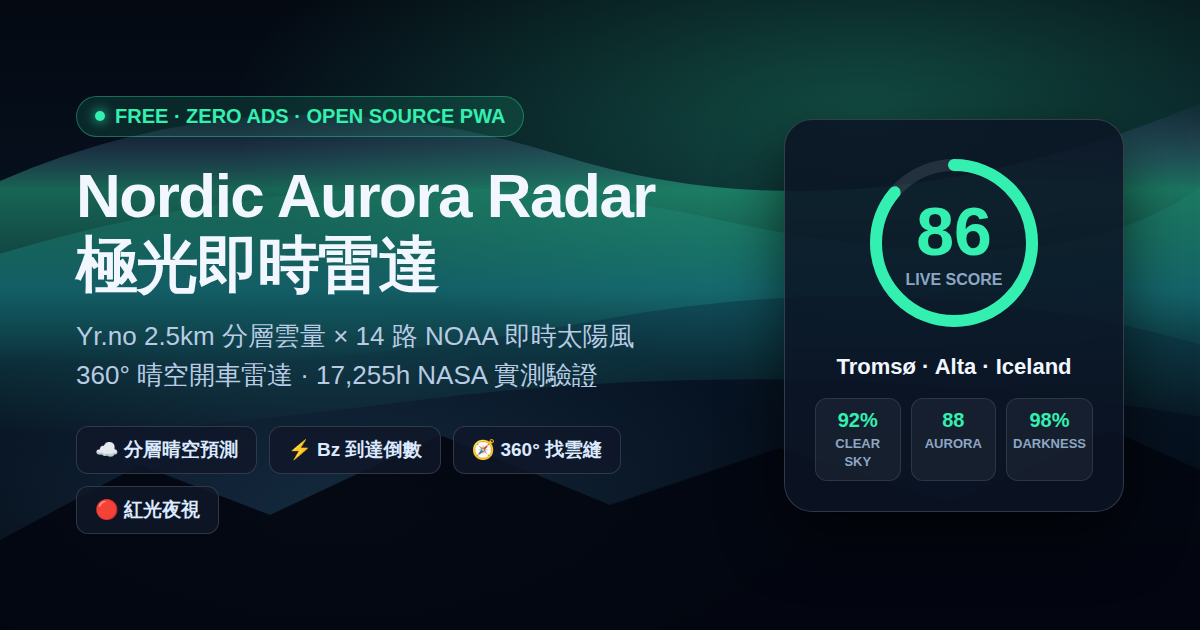
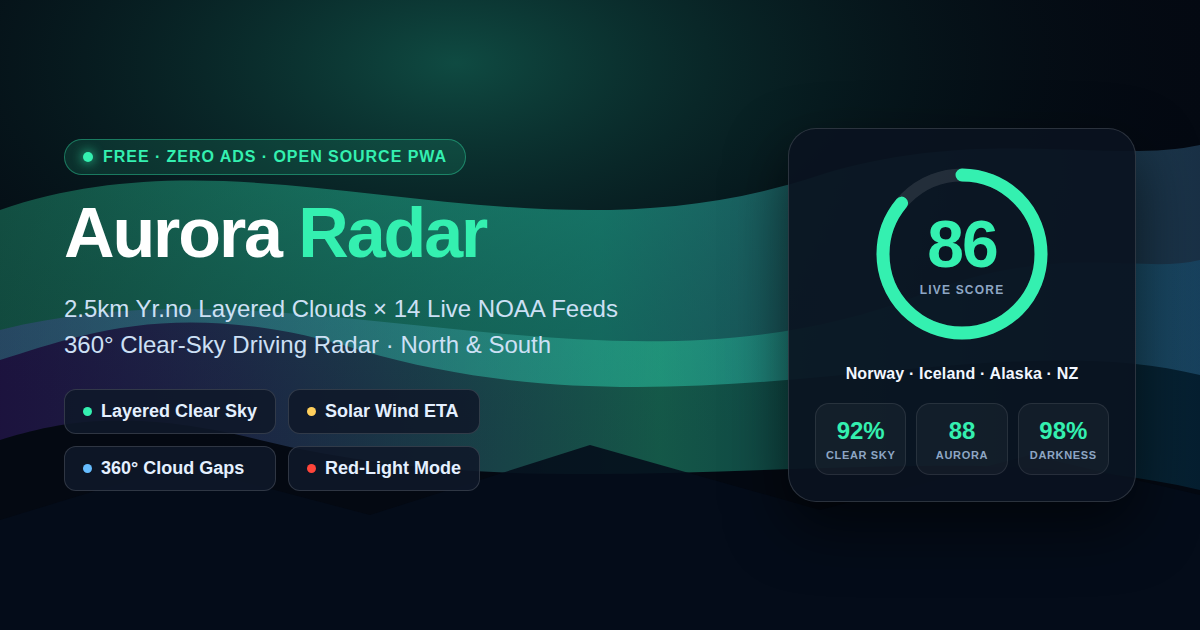
chore: internationalize English 1200x630 og-cover.png and OG social preview tags

diff --git a/index.html b/index.html
@@ -17,13 +17,13 @@
   <link rel="canonical" href="https://peteryux.github.io/nordic-aurora-radar/" />
   <meta property="og:type" content="website" />
   <meta property="og:url" content="https://peteryux.github.io/nordic-aurora-radar/" />
-  <meta property="og:title" content="Nordic Aurora Radar｜極光即時雷達" />
-  <meta property="og:description" content="Real-time Yr.no layered cloud + 14-feed NOAA solar wind aurora radar with twilight/moonlight physics, 17,255h NASA OMNI2 blind audit, and 360° cloud-gap routing." />
-  <meta property="og:image" content="https://peteryux.github.io/nordic-aurora-radar/og-cover.png" />
+  <meta property="og:title" content="Aurora Radar — Live Clear-Sky & Solar Wind Forecast" />
+  <meta property="og:description" content="Free, no-ad aurora radar fusing 2.5km Yr.no layered clouds, 14 live NOAA solar wind feeds, twilight/moonlight darkness countdown, and a 360° clear-sky driving radar." />
+  <meta property="og:image" content="https://peteryux.github.io/nordic-aurora-radar/og-cover.png?v=2" />
   <meta property="og:image:width" content="1200" />
   <meta property="og:image:height" content="630" />
   <meta name="twitter:card" content="summary_large_image" />
-  <meta name="twitter:image" content="https://peteryux.github.io/nordic-aurora-radar/og-cover.png" />
+  <meta name="twitter:image" content="https://peteryux.github.io/nordic-aurora-radar/og-cover.png?v=2" />
   <link rel="stylesheet" href="styles.css" />
   <script type="application/ld+json">
   {
